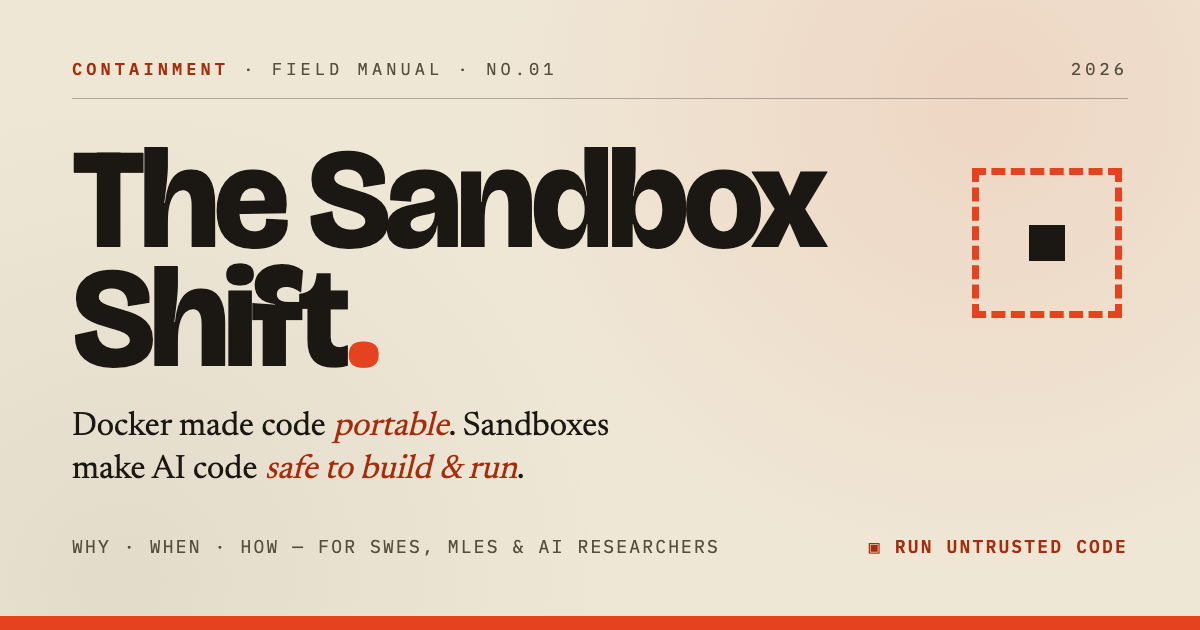
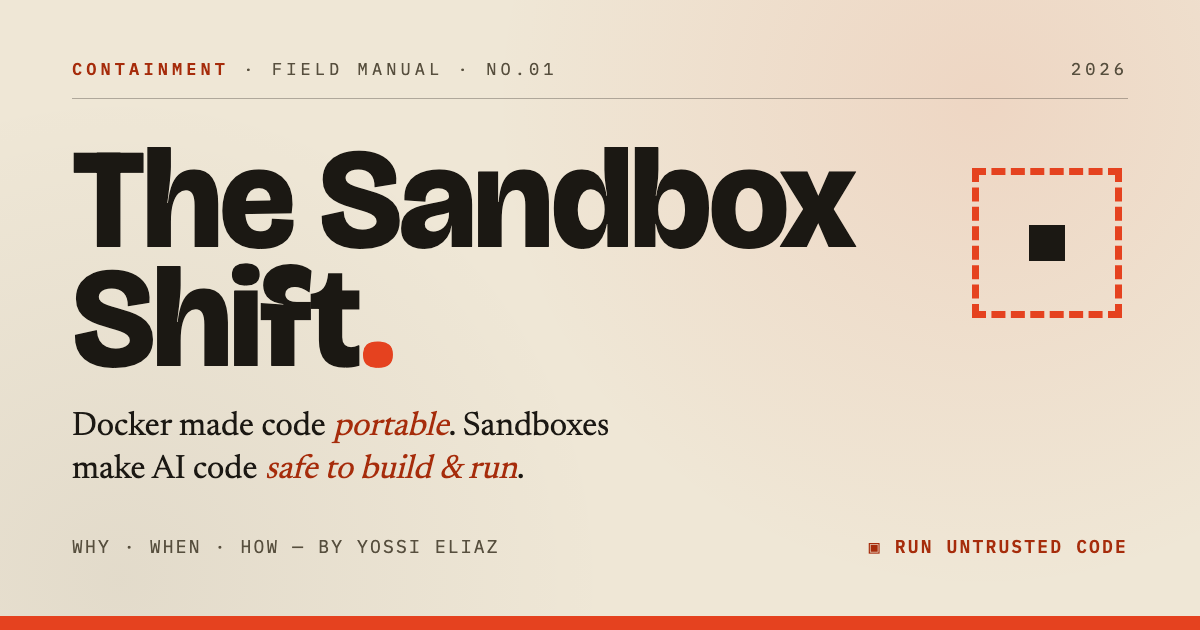
Tone down marketing, add byline and source the microVM figures
- Rewrite the islo.dev disclosure plainly and drop the bear lines and
  "ours" wording; replace the hype CTA with a plain statement of the bet.
- Link Crabbox and credit upstream openclaw/crabbox.
- Cite the Firecracker project for "under 125 ms, thousands per host"
  in the ladder, persona panel and objections.
- Add a masthead lede and a "By Yossi Eliaz" byline; point the footer
  byline to the professional home and link back to the writing site.
- Shorten the title and meta description; extend JSON-LD with
  dateModified, mainEntityOfPage and author url/sameAs.
- Loosen h1 and share-card tracking so glyphs no longer collide; add
  the author to the share card and re-render og.png.
- Restore the footer's side gutter (it sat flush at x=0).
- README: drop "vendor-neutral", state audience and live URL, and make
  the section list and file table match the page.

Changed region(s): [[0.0925, 0.2111, 0.7092, 0.3921], [0.1233, 0.4222, 0.3392, 0.6032], [0.2775, 0.8444, 0.5858, 0.8746]]

diff --git a/index.html b/index.html
@@ -3,8 +3,8 @@
 <head>
   <meta charset="utf-8">
   <meta name="viewport" content="width=device-width, initial-scale=1">
-  <title>The Sandbox Shift — a field manual for running untrusted code</title>
-  <meta name="description" content="Docker made code portable. Sandboxes make AI-written code safe to run — and give an agent a whole computer to dev, test, build and ship in, end to end. A concise field manual on why, when & how, for SWEs, MLEs and AI researchers, with an interactive decider.">
+  <title>The Sandbox Shift: when to sandbox AI code · Yossi Eliaz</title>
+  <meta name="description" content="A field guide for engineers on why, when and how to run AI-written code in sandboxes, with an isolation ladder and an interactive decider.">
   <meta name="color-scheme" content="light">
   <meta name="theme-color" content="#1a1712">
 
@@ -18,7 +18,7 @@
   <meta property="og:image" content="https://zozo123.github.io/sandboxes-why-how-when/og.png">
   <meta property="og:image:width" content="1200">
   <meta property="og:image:height" content="630">
-  <meta property="og:image:alt" content="The Sandbox Shift — a field manual for running untrusted code.">
+  <meta property="og:image:alt" content="The Sandbox Shift — a field manual for running untrusted code, by Yossi Eliaz.">
   <meta name="twitter:card" content="summary_large_image">
   <meta name="twitter:title" content="The Sandbox Shift">
   <meta name="twitter:description" content="Docker made code portable. Sandboxes make AI-written code safe to run.">
@@ -38,11 +38,18 @@
     "@context": "https://schema.org",
     "@type": "TechArticle",
     "headline": "The Sandbox Shift",
-    "description": "Docker made code portable. Sandboxes make AI-written code safe to run — and give an agent a whole computer to build in, end to end. A field manual on why, when and how.",
+    "description": "A field guide for engineers on why, when and how to run AI-written code in sandboxes, with an isolation ladder and an interactive decider.",
     "url": "https://zozo123.github.io/sandboxes-why-how-when/",
     "image": "https://zozo123.github.io/sandboxes-why-how-when/og.png",
     "datePublished": "2026-06-01",
-    "author": { "@type": "Person", "name": "Yossi Eliaz", "url": "https://www.linkedin.com/in/yossi-eliaz" }
+    "dateModified": "2026-10-22",
+    "mainEntityOfPage": "https://zozo123.github.io/sandboxes-why-how-when/",
+    "author": {
+      "@type": "Person",
+      "name": "Yossi Eliaz",
+      "url": "https://yossieliaz.netlify.app/",
+      "sameAs": ["https://github.com/zozo123", "https://zozo123.github.io/", "https://www.linkedin.com/in/yossi-eliaz/"]
+    }
   }
   </script>
 </head>
@@ -57,8 +64,10 @@
     Docker made code <em>portable</em>. Sandboxes make it <em>safe&nbsp;to&nbsp;run</em> —
     because the author isn't human anymore. It's a model, writing code faster than anyone can read it.
   </p>
+  <p class="lede load" style="--d:.24s">This guide explains when to run AI-written code in a sandbox, which isolation tier to pick (subprocess to full VM), and whether to place it inside or outside your VPC. It is written for software, ML and AI-research engineers.</p>
   <p class="claim load" style="--d:.3s">Generation got cheap. <strong>Safe execution is the new bottleneck.</strong></p>
-  <p class="def load" style="--d:.4s"><span class="mk">sandbox · the unit</span>A disposable computer an agent works <i>inside</i> — it can edit, run, test, build &amp; ship there, with controlled reach into files, network &amp; secrets, then vanish. Safe enough to let a model run wild; complete enough to let it finish the job.</p>
+  <p class="byline load" style="--d:.36s">By <a href="https://zozo123.github.io/">Yossi&nbsp;Eliaz</a> · <time datetime="2026-06-01">June&nbsp;1, 2026</time> · <a href="https://yossieliaz.netlify.app/">About&nbsp;the&nbsp;author</a></p>
+  <p class="def load" style="--d:.42s"><span class="mk">sandbox · the unit</span>A disposable computer an agent works <i>inside</i> — it can edit, run, test, build &amp; ship there, with controlled reach into files, network &amp; secrets, then vanish. Safe enough to let a model run wild; complete enough to let it finish the job.</p>
   <nav class="jump load" style="--d:.5s" aria-label="Sections">
     <a href="#why">01 / Why</a><a href="#when">02 / When</a><a href="#how">03 / How</a><a href="#decide">⌗ Decide</a>
   </nav>
@@ -139,7 +148,7 @@
       <dl>
         <dt>Why</dt><dd>RL and evals <i>are</i> untrusted execution at scale; dirty state silently poisons the signal.</dd>
         <dt>Where</dt><dd>RL environments · verifiable evals · <i>reasoning sandboxes that run harnesses</i>: spawn → set up task → run the agent's code → score → destroy.</dd>
-        <dt>The call</dt><dd>Disposability is the whole game → <b>microVMs: VM-grade isolation, ~100&nbsp;ms boot, thousands per host</b>.</dd>
+        <dt>The call</dt><dd>Disposability is the whole game → <b>microVMs: VM-grade isolation, under 125&nbsp;ms boot and thousands per host (Firecracker&rsquo;s figures)</b>.</dd>
       </dl>
     </article>
   </div>
@@ -159,7 +168,7 @@
     <li data-tier="1"><span class="rung">namespaces · cgroups · seccomp</span><span class="d">nsjail, bubblewrap. Cheap kernel-level fencing for semi-trusted code.</span></li>
     <li data-tier="2"><span class="rung">container</span><span class="d">runc / containerd. Shared kernel — one kernel CVE is an escape.</span></li>
     <li data-tier="3"><span class="rung">gVisor</span><span class="d">A user-space kernel intercepts syscalls. Container ergonomics, smaller attack surface.</span></li>
-    <li data-tier="4" class="sweet"><span class="rung">microVM · Firecracker</span><span class="d">A real VM boundary that boots in ~100&nbsp;ms, thousands per host. The agent sweet spot.</span></li>
+    <li data-tier="4" class="sweet"><span class="rung">microVM · Firecracker</span><span class="d">A real VM boundary that boots in under 125&nbsp;ms, thousands per host (per the <a href="https://firecracker-microvm.github.io/">Firecracker project</a>). The agent sweet spot.</span></li>
     <li data-tier="5"><span class="rung">full VM · air-gapped</span><span class="d">Maximum isolation, maximum cost. For the genuinely hostile.</span></li>
   </ol>
 
@@ -214,7 +223,7 @@
 <section class="sec ob alt">
   <header class="sec-h reveal"><span class="idx">¶</span><h2>Isn't this just…?</h2><span class="sec-line"></span></header>
   <div class="obs">
-    <p class="reveal"><b>…a VM?</b> In isolation terms, yes. The novelty is booting it in ~100&nbsp;ms and packing thousands per host — that economics is what makes per-rollout disposability possible at all.</p>
+    <p class="reveal"><b>…a VM?</b> In isolation terms, yes. The novelty is booting it in under 125&nbsp;ms and packing thousands per host (Firecracker&rsquo;s figures) — that economics is what makes per-rollout disposability possible at all.</p>
     <p class="reveal"><b>…containers?</b> Containers share the host kernel; one kernel CVE is an escape. Fine for code you trust, thin for unreviewed model output. That gap is why gVisor and microVMs exist.</p>
     <p class="reveal"><b>…hype? we've run untrusted code for decades.</b> True. What changed is authorship and volume: code is now machine-written, unreviewed, and generated faster than humans can vet. Isolation moves from edge case to default substrate.</p>
   </div>
@@ -225,12 +234,12 @@
   <header class="sec-h reveal"><span class="idx">⬡</span><h2>The landscape</h2><span class="sec-line"></span></header>
   <p class="lead reveal">A vast, fast-moving market — converging on the same shape: fast, disposable, API-driven isolation.</p>
   <p class="land-tags reveal">Daytona · E2B · Blacksmith · Tensorlake · exe.dev · Modal · islo.dev · …</p>
-  <p class="reveal" style="max-width:64ch">Pick any of them and the concepts on this page don't change. <code>crabbox.sh</code> exists so you don't have to choose blindly — it runs the same task across <em>every</em> provider, turning the sandbox into a commodity you can swap.</p>
-  <p class="bear reveal"><span class="mk">full disclosure</span>islo.dev is one of these providers — and it's ours. There's only one bear in town. 🐻</p>
+  <p class="reveal" style="max-width:64ch">Pick any of them and the concepts on this page don't change. <a href="https://crabbox.sh/">Crabbox</a> (<a href="https://github.com/openclaw/crabbox">openclaw/crabbox</a>) exists so you don't have to choose blindly — it runs the same task across many providers, all of the above included, turning the sandbox into a commodity you can swap.</p>
+  <p class="bear reveal"><span class="mk">disclosure</span>islo.dev is one of these providers. The author works at Incredibuild / islo.dev.</p>
 
   <div class="cta reveal">
     <p class="cta-kick">the bet</p>
-    <p class="cta-big">It's the container revolution again — at a far larger scale. Shipping software without sandboxes in 2026 is <span>not using Docker in 2016.</span></p>
+    <p class="cta-big">Sandboxes become as routine for AI-written code as <span>containers became for shipped code.</span></p>
   </div>
 </section>
 
@@ -238,12 +247,12 @@
 
 <footer class="foot">
   <p><b>The Sandbox Shift.</b> Static page — no build, no tracking, no cookies.</p>
-  <p>Run untrusted code like you mean it. · <a href="https://github.com/zozo123/sandboxes-why-how-when">source</a> · design nods to <a href="https://github.com/zozo123/intel-story">intel-story</a></p>
+  <p>Run untrusted code like you mean it. · <a href="https://github.com/zozo123/sandboxes-why-how-when">source</a> · design nods to <a href="https://github.com/zozo123/intel-story">intel-story</a> · <a href="https://zozo123.github.io/">more writing</a></p>
   <p class="disc">
-    <b style="color:#fff">Disclosure.</b> Written by <a href="https://www.linkedin.com/in/yossi-eliaz">Yossi&nbsp;Eliaz</a>,
-    who works with <b style="color:#e8dcc4">islo.dev</b> (yes — the bear&nbsp;🐻) and actively contributes to
-    <b style="color:#e8dcc4">crabbox.sh</b>, which runs across every provider above.
-    The why / when / how is vendor-neutral; the landscape names names — ours included.
+    <b style="color:#fff">Disclosure.</b> Written by <a href="https://yossieliaz.netlify.app/">Yossi&nbsp;Eliaz</a>,
+    who works at <b style="color:#e8dcc4">Incredibuild / islo.dev</b> and contributes to
+    <a href="https://github.com/openclaw/crabbox">Crabbox</a> (openclaw/crabbox), which runs across every provider above.
+    The why / when / how is provider-agnostic; the landscape names providers, including the author&rsquo;s employer.
   </p>
 </footer>
 

diff --git a/styles.css b/styles.css
@@ -87,7 +87,7 @@ strong, b { font-weight: 600; }
 h1 {
   font-family: var(--display); font-weight: 800;
   font-size: clamp(2.4rem, 12.5vw, 10rem);
-  line-height: .86; letter-spacing: -.035em;
+  line-height: .86; letter-spacing: -.015em;
   margin: 0 0 1.4rem;
 }
 h1 .dot { color: var(--hot); }
@@ -99,10 +99,17 @@ h1 .dot { color: var(--hot); }
 .thesis em { color: var(--hot-2); font-style: italic; }
 .claim {
   font-family: var(--mono); font-size: clamp(.85rem, 1.6vw, 1rem); letter-spacing: .01em;
-  border-left: 3px solid var(--hot); padding-left: .9rem; max-width: 46ch; margin: 0 0 2.2rem;
+  border-left: 3px solid var(--hot); padding-left: .9rem; max-width: 46ch; margin: 0 0 1.2rem;
   color: var(--ink-2);
 }
 .claim strong { color: var(--ink); }
+.lede { max-width: 60ch; margin: 0 0 1.4rem; color: var(--ink-2); font-size: 1.02em; }
+.byline {
+  font-family: var(--mono); font-size: .74rem; letter-spacing: .06em;
+  color: var(--ink-2); margin: 0 0 2.2rem;
+}
+.byline a { color: var(--ink); }
+.byline a:hover { color: var(--hot-2); }
 .def { max-width: 56ch; margin: 0 0 2.2rem; font-size: 1.04em; color: var(--ink); }
 .def .mk { display: block; margin-bottom: .35rem; }
 .jump { display: flex; flex-wrap: wrap; gap: 0; font-family: var(--mono); font-size: .78rem; }
@@ -211,6 +218,7 @@ h1 .dot { color: var(--hot); }
 .ladder li.pick { background: var(--ink); color: var(--paper); }
 .ladder li.pick::before, .ladder li.pick .d { color: #cdbfa0; }
 .ladder li.pick .rung { color: #fff; }
+.ladder li.pick a { color: #ff7a5c; }
 .ladder li.pick .rung::after { content: "← your pick"; color: var(--hot); }
 
 .tradeoff {
@@ -289,7 +297,7 @@ h1 .dot { color: var(--hot); }
 .obs b { color: var(--ink); font-family: var(--display); font-weight: 600; }
 
 /* ============ FOOTER ============ */
-.foot { background: var(--ink); color: #cdc4b2; padding: 2.6rem 0; margin-top: 0;
+.foot { background: var(--ink); color: #cdc4b2; padding-block: 2.6rem; margin-top: 0;
         border-top: 3px solid var(--hot); }
 .foot > * { max-width: var(--cw); margin-inline: auto; }
 .foot p { margin: .3rem 0; font-family: var(--mono); font-size: .8rem; letter-spacing: .02em; }

diff --git a/og-card.html b/og-card.html
@@ -30,7 +30,7 @@
   .top b { color: #a62c0b; font-weight: 600; }
   h1 {
     font-family: "Bricolage Grotesque", sans-serif; font-weight: 800;
-    font-size: 142px; line-height: .84; letter-spacing: -.04em;
+    font-size: 142px; line-height: .84; letter-spacing: -.02em;
   }
   h1 .dot { color: #e5421f; }
   .sub { font-size: 33px; line-height: 1.32; max-width: 30ch; margin-top: 26px; }
@@ -54,7 +54,7 @@
     <p class="sub">Docker made code <em>portable</em>. Sandboxes make AI code <em>safe&nbsp;to&nbsp;build&nbsp;&amp;&nbsp;run</em>.</p>
   </div>
   <div class="foot">
-    <span>Why · When · How — for SWEs, MLEs &amp; AI researchers</span>
+    <span>Why · When · How — by Yossi Eliaz</span>
     <span class="acc">▣ run untrusted code</span>
   </div>
 </body>

diff --git a/README.md b/README.md
@@ -1,7 +1,8 @@
 # The Sandbox Shift
 
-A concise, vendor-neutral field guide to **why, when, and how** to use execution sandboxes
-for AI-authored code — with an interactive *"do you need a sandbox?"* decider.
+A concise field guide for software, ML and AI-research engineers on **why, when, and how** to run
+AI-written code in execution sandboxes, with an interactive *"do you need a sandbox?"* decider.
+By Yossi Eliaz. Read it at **https://zozo123.github.io/sandboxes-why-how-when/**.
 
 > Docker made code **portable**. Sandboxes make code **safe to run** — because the author is no
 > longer a human you trust. Generation got cheap; **safe execution is the new bottleneck.**
@@ -10,15 +11,17 @@ It's a single static page. No build step, no framework, no tracking, no cookies.
 
 ## What's inside
 
-- **Thesis** — containers vs sandboxes: the assumption that flipped.
-- **Act ① Why** — untrusted author, blast radius, reproducibility, parallelism, state control.
-- **Act ② When** — the lifecycle (exec → dev → CI → evals/RL → prod) and the inside-VPC vs
-  outside/public-ephemeral trust boundary, as a 2×2.
-- **Interactive decider** — four questions → a live verdict, recommended isolation tier
+- **Thesis** — containers vs sandboxes: the assumption that flipped (then / now).
+- **01 Why** — untrusted author, bounded blast radius, reproducibility at scale.
+- **A wall, and a workbench** — the sandbox as the whole computer an agent works inside.
+- **02 When** — four common jobs (dev, test/eval, deploy, parallel), the same primitive by role
+  (SWE / MLE / AI researcher), and the inside-VPC vs outside trust boundary.
+- **03 How** — the isolation ladder (subprocess → namespaces → container → gVisor →
+  microVM → full VM) and its trade-offs.
+- **Decide** — four questions → a live verdict, recommended isolation tier
   (highlighted on the ladder), and placement. Pure JS, runs entirely in your browser.
-- **Act ③ How** — the isolation ladder (subprocess → namespaces → container → gVisor →
-  microVM → full VM) and the operating patterns that apply at every tier.
-- **Objections** — honest answers to "isn't this just containers / a VM / hype?"
+- **Objections** — answers to "isn't this just containers / a VM / hype?"
+- **The landscape** — providers named, with a disclosure of the author's employer.
 
 ## Files
 
@@ -26,7 +29,7 @@ It's a single static page. No build step, no framework, no tracking, no cookies.
 |------|------|
 | `index.html` | Structure + content + social meta |
 | `styles.css` | Editorial / infographic design system |
-| `script.js`  | Scroll reveals, back-to-top, the decider (no deps) |
+| `script.js`  | Scroll reveals, the audience toggle, the decider (no deps) |
 | `.nojekyll`  | Tells GitHub Pages to serve files as-is |
 | `og.png`     | 1200×630 social-share card (Open Graph / Twitter) |
 | `og-card.html` | Source for `og.png` — re-render with headless Chrome |
@@ -57,4 +60,5 @@ Or just open `index.html` directly.
 ## Credits
 
 Design and storytelling inspired by [`zozo123/intel-story`](https://github.com/zozo123/intel-story).
-Vendor-neutral by design — providers are named only as a landscape, not a recommendation.
+The why / when / how is provider-agnostic; the landscape names providers, including the author's employer (islo.dev).
+microVM boot and density figures are from the [Firecracker project](https://firecracker-microvm.github.io/).
